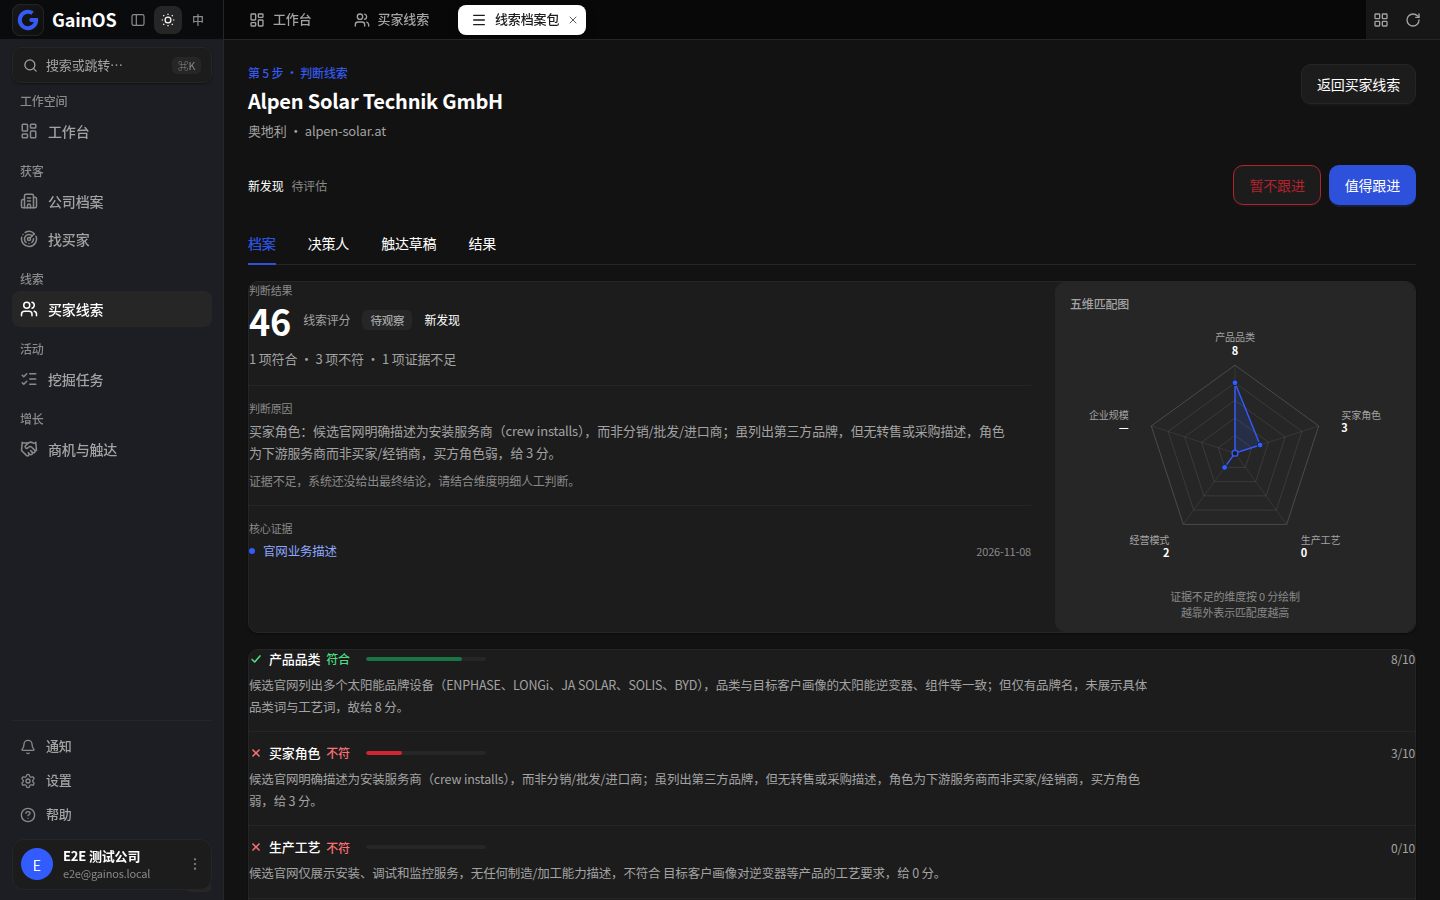
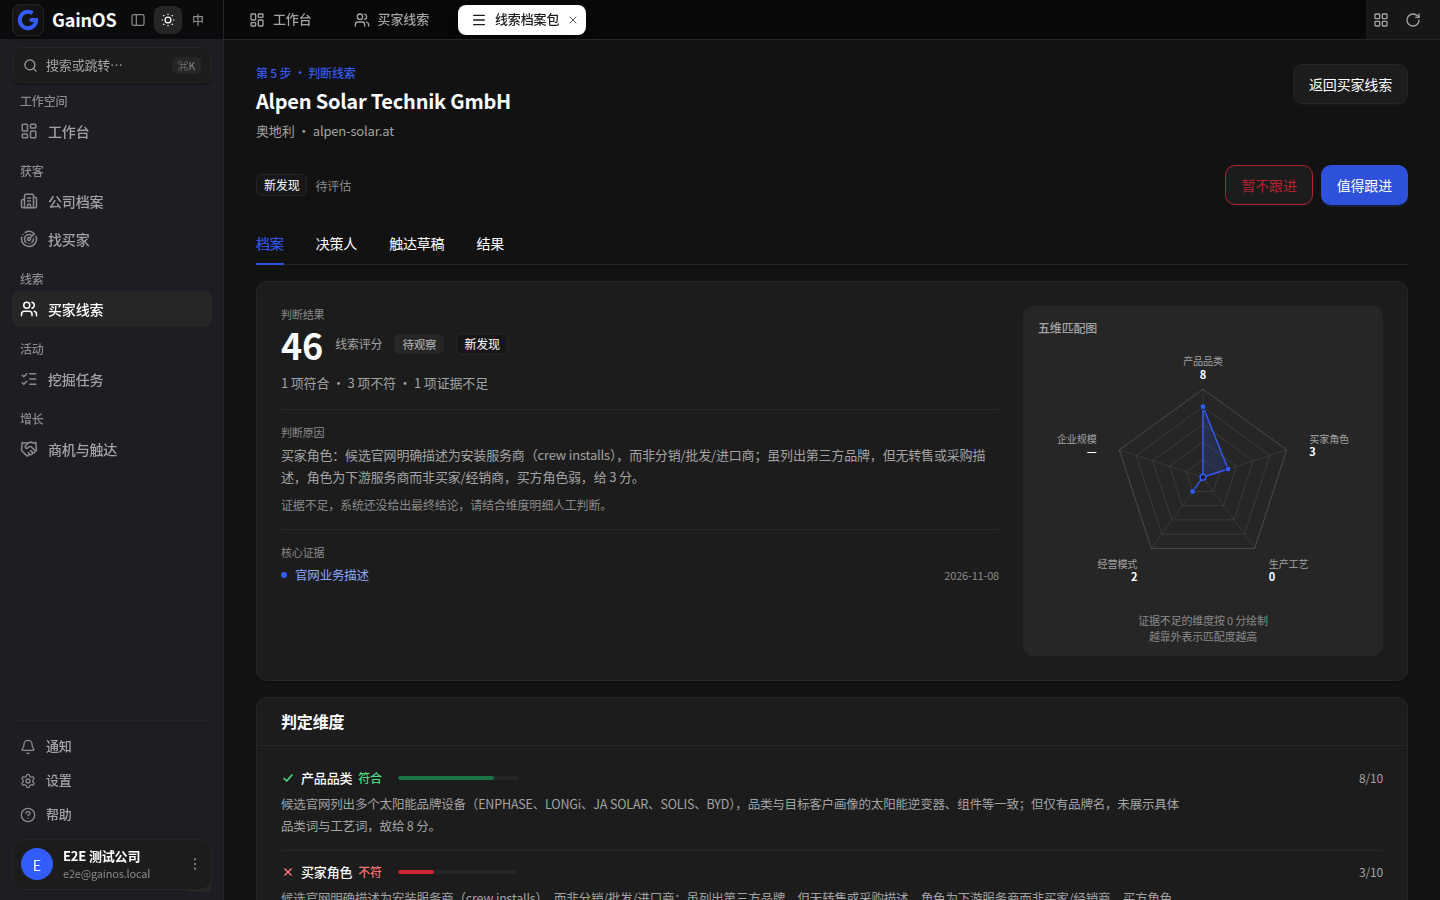
fix(web): render real AntD components in Gs wrappers (restore card padding, tags, empty states)
Root cause: GsCard/GsTag/GsEmpty/GsModal/GsTable/GsStat used unresolved <a-card>/<a-tag> string tags (no global AntDV registration), so they rendered as custom elements: card body padding 0, card heads/slots dropped, tags plain text - the 'no margins' regression.
- Import Card/Tag/Empty/Modal/Table/Statistic explicitly; GsCard body padding 24
- GsEmpty actions move below Empty; card titles get role=heading aria-level=2
- Page gutters use --gs-page-max/--gs-page-pad (32px desktop); evidence retaken
- Docs: wrapper rule in design system + AGENTS, inventory 16.5

diff --git a/apps/web/src/components/gainos/ui/gs-empty.vue b/apps/web/src/components/gainos/ui/gs-empty.vue
@@ -1,5 +1,7 @@
 <script lang="ts" setup>
 /** 空态（设计系统 §6）：a-empty + 标题/说明/操作槽位。 */
+import { Empty } from 'ant-design-vue';
+
 defineOptions({ name: 'GsEmpty' });
 
 defineProps<{ description?: string; title?: string }>();
@@ -7,17 +9,15 @@ defineProps<{ description?: string; title?: string }>();
 
 <template>
   <div class="gs-empty" data-gs="empty">
-    <a-empty>
-      <template v-if="title" #description>
-        <p class="gs-empty__title">{{ title }}</p>
+    <Empty>
+      <template v-if="title || description" #description>
+        <p v-if="title" class="gs-empty__title">{{ title }}</p>
         <p v-if="description" class="gs-empty__desc">{{ description }}</p>
       </template>
-      <template v-if="$slots.actions" #default>
-        <div class="gs-empty__actions">
-          <slot name="actions"></slot>
-        </div>
-      </template>
-    </a-empty>
+    </Empty>
+    <div v-if="$slots.actions" class="gs-empty__actions">
+      <slot name="actions"></slot>
+    </div>
   </div>
 </template>
 

diff --git a/apps/web/src/components/gainos/ui/gs-card.vue b/apps/web/src/components/gainos/ui/gs-card.vue
@@ -1,20 +1,24 @@
 <script lang="ts" setup>
 /** 卡片（设计系统 §4/§5）：白底 + 1px 边 + 10px 圆角 + xs 阴影。 */
+import { Card } from 'ant-design-vue';
+
 defineOptions({ name: 'GsCard' });
 
 defineProps<{ title?: string }>();
 </script>
 
 <template>
-  <a-card class="gs-card" :bordered="true" :body-style="{ padding: '20px' }">
+  <Card class="gs-card" :bordered="true" :body-style="{ padding: '24px' }">
     <template v-if="title || $slots.title" #title>
-      <slot name="title">{{ title }}</slot>
+      <span class="gs-card__title" role="heading" aria-level="2">
+        <slot name="title">{{ title }}</slot>
+      </span>
     </template>
     <template v-if="$slots.extra" #extra>
       <slot name="extra"></slot>
     </template>
     <slot></slot>
-  </a-card>
+  </Card>
 </template>
 
 <style scoped>
@@ -29,5 +33,8 @@ defineProps<{ title?: string }>();
 .gs-card :deep(.ant-card-head-title) {
   font-size: 16px;
   font-weight: 600;
+}
+.gs-card__title {
+  display: inline-block;
 }
 </style>

diff --git a/apps/web/src/components/gainos/ui/gs-stat.vue b/apps/web/src/components/gainos/ui/gs-stat.vue
@@ -1,5 +1,7 @@
 <script lang="ts" setup>
 /** KPI 卡（设计系统 §5）：a-card + a-statistic，数字 tabular-nums。 */
+import { Card, Statistic } from 'ant-design-vue';
+
 defineOptions({ name: 'GsStat' });
 
 defineProps<{
@@ -11,13 +13,13 @@ defineProps<{
 </script>
 
 <template>
-  <a-card class="gs-stat" :body-style="{ padding: '16px 20px' }" data-gs="stat">
-    <a-statistic :loading="loading" :title="label" :value="value">
+  <Card class="gs-stat" :body-style="{ padding: '16px 20px' }" data-gs="stat">
+    <Statistic :loading="loading" :title="label" :value="value">
       <template v-if="suffix" #suffix>
         <span class="gs-stat__suffix">{{ suffix }}</span>
       </template>
-    </a-statistic>
-  </a-card>
+    </Statistic>
+  </Card>
 </template>
 
 <style scoped>

diff --git a/apps/web/src/components/gainos/ui/gs-modal.vue b/apps/web/src/components/gainos/ui/gs-modal.vue
@@ -1,5 +1,7 @@
 <script lang="ts" setup>
 /** 弹层（设计系统 §8）：10px 圆角、标准页脚、danger/pending 支持。 */
+import { Modal } from 'ant-design-vue';
+
 defineOptions({ name: 'GsModal' });
 
 withDefaults(
@@ -19,7 +21,7 @@ const emit = defineEmits<{ cancel: []; ok: [] }>();
 </script>
 
 <template>
-  <a-modal
+  <Modal
     v-model:open="open"
     :cancel-text="cancelText"
     :confirm-loading="confirmLoading"
@@ -37,5 +39,5 @@ const emit = defineEmits<{ cancel: []; ok: [] }>();
     <template v-if="$slots.footer" #footer>
       <slot name="footer"></slot>
     </template>
-  </a-modal>
+  </Modal>
 </template>

diff --git a/apps/web/src/components/gainos/ui/gs-table.vue b/apps/web/src/components/gainos/ui/gs-table.vue
@@ -5,6 +5,8 @@
  */
 import type { TableProps } from 'ant-design-vue';
 
+import { Table } from 'ant-design-vue';
+
 defineOptions({ name: 'GsTable', inheritAttrs: false });
 
 const props = withDefaults(
@@ -14,7 +16,7 @@ const props = withDefaults(
 </script>
 
 <template>
-  <a-table
+  <Table
     v-bind="$attrs"
     :loading="loading"
     :pagination="props.pagination"
@@ -25,7 +27,7 @@ const props = withDefaults(
     <template v-for="(_, name) in $slots" #[name]="slotData">
       <slot :name="name" v-bind="slotData ?? {}"></slot>
     </template>
-  </a-table>
+  </Table>
 </template>
 
 <style scoped>

diff --git a/apps/web/src/components/gainos/ui/gs-tag.vue b/apps/web/src/components/gainos/ui/gs-tag.vue
@@ -2,6 +2,8 @@
 /** 状态标签（设计系统 §5）：状态色只出现在这里。 */
 import { computed } from 'vue';
 
+import { Tag } from 'ant-design-vue';
+
 defineOptions({ name: 'GsTag' });
 
 const props = withDefaults(
@@ -31,9 +33,9 @@ const color = computed(() => {
 </script>
 
 <template>
-  <a-tag :color="color" class="gs-tag" data-gs="tag">
+  <Tag :color="color" class="gs-tag" data-gs="tag">
     <slot></slot>
-  </a-tag>
+  </Tag>
 </template>
 
 <style scoped>

diff --git a/apps/web/src/views/leads/detail.vue b/apps/web/src/views/leads/detail.vue
@@ -495,7 +495,7 @@ watch(tab, (next) => {
 </script>
 
 <template>
-  <div class="mx-auto grid w-full max-w-[1280px] gap-6 px-6 pb-12 pt-6">
+  <div class="mx-auto grid w-full max-w-[var(--gs-page-max)] gap-6 px-[var(--gs-page-pad)] pb-12 pt-6">
     <GsPage
       :kicker="$t('gainos.leads.stage')"
       :subtitle="pkg ? [pkg.company.country, pkg.company.domain].filter(Boolean).join(' · ') : ''"

diff --git a/apps/web/src/views/leads/index.vue b/apps/web/src/views/leads/index.vue
@@ -435,7 +435,7 @@ onUnmounted(() => window.removeEventListener('keydown', onEscape));
 </script>
 
 <template>
-  <div class="mx-auto grid w-full max-w-[1280px] gap-6 px-6 pb-12 pt-6">
+  <div class="mx-auto grid w-full max-w-[var(--gs-page-max)] gap-6 px-[var(--gs-page-pad)] pb-12 pt-6">
     <GsPage
       :kicker="$t('gainos.leads.stage')"
       :subtitle="$t('gainos.leads.subtitle')"

diff --git a/docs/evidence/ui-restyle/inventory.md b/docs/evidence/ui-restyle/inventory.md
@@ -1681,3 +1681,9 @@ tone：COMPLETED `is-ok` / FAILED `is-bad` / ERASING、FROZEN `is-warn` / 其他
 - 新增 `e2e/leads-judge.spec.ts`：用用户给出的真实形状数据锁定「列表/详情不出现 C1_MATERIAL / judge-aggregate / reasonCodes / ICP」「展开可见逐维理由」「技术详情内可见机器码」「详情雷达 role=img」。
 - 回归：nav-shell、main-chain（9 条）、idempotency、a11y、resilience、pass2-measure（按钮 40px）、color-scan（pass2/pass3）、dark-mode、responsive、locale-toggle、zero-jargon 全绿；`resilience` 的旧 `.ld__lead` 锚点改 `data-gs="lead-card"`。
 - 证据：`docs/evidence/ui-restyle/antd-system/leads-judge-{light,dark}.png`、`leads-detail-judge-{light,dark}.png`。
+
+### 16.5 边距回归修复（2026-11-23）
+用户验收反馈「页面没有边距」。根因不在页面 padding，而在批次 1 的封装层：`GsCard/GsTag/GsEmpty/GsModal/GsTable/GsStat` 使用了 `<a-card>`/`<a-tag>` 字符串标签，但本应用从未全局注册 AntDV → 浏览器把它们当自定义元素 `A-CARD` 渲染，`body-style` 变成 `[object Object]` 属性，卡片 body padding=0、card head/title 与作用域插槽全部丢失，Tag 退化为纯文本。
+- 修复：六个封装改为显式 `import { Card, Tag, Empty, Modal, Table, Statistic }` 并使用 PascalCase 组件；`GsCard` body padding 24px；`GsEmpty` 的操作区移到 Empty 下方（不再占用 image 槽）；卡片标题包 `role="heading" aria-level="2"`。
+- 页面留白：列表/详情根容器改用 `--gs-page-max`（1280）与 `--gs-page-pad`（桌面 32px），卡片与页面边缘都有可见留白。
+- 验证：typecheck / lint 全绿；定向 e2e 34 项全绿（含 color-scan ×2、a11y、dark、responsive、zero-jargon、main-chain、leads-judge）；证据重拍 `antd-system/leads-*`、`pass2/*`、`pass3/*`。

diff --git a/docs/engineering/ui-design-system.md b/docs/engineering/ui-design-system.md
@@ -8,6 +8,7 @@
 
 - 交互组件一律使用 **ant-design-vue 4.x**（Button/Input/Select/Form/Table/Modal/Drawer/Tabs/Steps/Alert/Tag/Empty/Skeleton…）。
 - 页面不允许再新增自定义按钮/输入/表格/弹层类；确需组合时使用 `components/gainos/ui/` 下的 `Gs*` 薄封装。
+- 封装内部必须 `import { Card, Tag, Empty, Modal, Table, Statistic } from 'ant-design-vue'` 后用 PascalCase 组件；**禁止写 `<a-card>`/`<a-tag>` 字符串标签**——本应用没有全局注册 AntDV，字符串标签会渲染成无样式自定义元素（卡片 0 padding、标题/标签丢失）。
 - 页面级 `<style scoped>` 目标为 0 行；布局用 `a-row/a-col/a-space/a-flex`，视觉全部来自 token。
 - 主题唯一来源：`app.vue` 的 `ConfigProvider`（`GS_BRAND` + `componentTokens`）。禁止在页面里写 `.ant-* { … !important }`。
 - 反馈（成功/失败提示、确认框、顶部通知）一律走 `apps/web/src/feedback.ts`（`App.useApp()` 上下文），不使用静态 `message/notification/Modal.confirm`，不使用 `window.confirm/alert`。
@@ -26,7 +27,8 @@
 ## 3. 间距与布局
 
 - 间距刻度：4 / 8 / 12 / 16 / 24 / 32（`--gs-space-*`）。
-- 页面：内容区左右 `24px`（`PageContainer` 负责），区块之间 `24px`，区块标题与内容 `12px`。
+- 页面：内容区左右 `--gs-page-pad`（clamp 20–32px，桌面 32px），最大宽度 `--gs-page-max`（1280px）；区块之间 `24px`，区块标题与内容 `12px`。
+- 卡片：body padding 24px（`GsCard`），卡片间距 16–24px；页面边缘与卡片边缘都必须留出可见留白。
 - 栅格：12 列；桌面卡片最小宽度 280px；窄屏单列。
 
 ## 4. 圆角与边框

diff --git a/AGENTS.md b/AGENTS.md
@@ -42,6 +42,7 @@
 
 - **唯一实现路径**：登录后业务页面（`/ops`、登录/注册/异常页除外）一律使用 ant-design-vue 组件；页面级 `<style scoped>` 目标为 0 行，视觉来自 `app.vue` 的 ConfigProvider token。规范见 [界面设计系统](docs/engineering/ui-design-system.md)。
 - **薄封装**：需要统一默认值时用 `apps/web/src/components/gainos/ui/`（GsPage/GsCard/GsTable/GsEmpty/GsModal/GsTag/GsStat/GsToolbar/GsSelect），不在页面里重造按钮/输入/表格/弹层。
+- **薄封装必须是真组件**：封装内禁止写 `<a-card>`/`<a-tag>` 这类字符串标签（本应用没有全局注册 AntDV，会渲染成无样式自定义元素，表现为卡片 0 padding、标题/标签丢失）；必须显式 `import { Card, Tag, … }` 后用 PascalCase。
 - **反馈统一**：成功/失败提示用 `#/feedback` 的 `feedback.message.*`，确认框用 `feedback.confirm`（danger 显式声明），顶部通知用 `feedback.notification.*`；禁止 `window.confirm/alert` 与静态 `message/notification`。
 - **测试锚点**：页面 DOM 只承诺 role/aria-label 与 `data-gs="<area>"`；旧 BEM 页面类（`.wk__*` / `.ld__*` / `.cp__*` …）迁移后不保留，e2e 同步改写。
 - **判定文本**：引擎的聚合判定（`judge-aggregate` / `C1_MATERIAL…` / `reasonCodes`）不得直接上屏；一律经 `apps/web/src/views/leads/judge.ts` 解析成五维业务语言，原文与机器码只进「技术详情」折叠区（规范 §11）。
